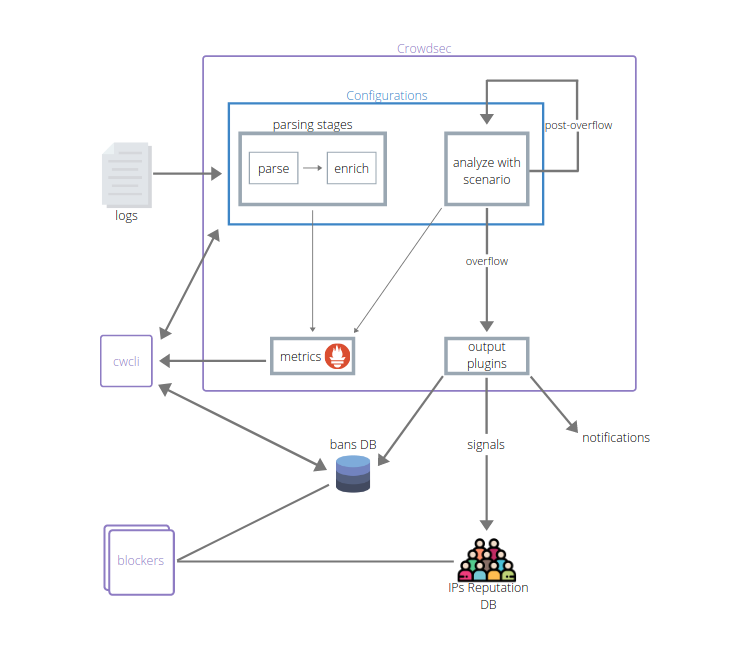
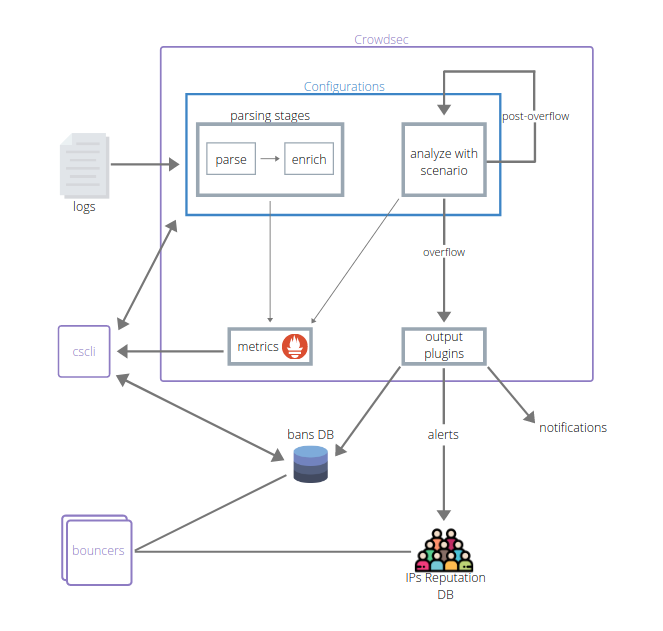
fix typos in doc + update schema

diff --git a/README.md b/README.md
@@ -30,7 +30,7 @@ To achieve this, Crowdsec reads logs from different sources (files, streams ...)
 
 Crowdsec is a modular and plug-able framework, it ships a large variety of well known popular scenarios; users can choose what scenarios they want to be protected from as well as easily add new custom ones to better fit their environment.
 
-Detected malevolent peers can then be prevented from accessing your resources by deploying [bouncers](https://hub.crowdsec.net/browse/#blockers) at various levels (applicative, system, infrastructural) of your stack.
+Detected malevolent peers can then be prevented from accessing your resources by deploying [bouncers](https://hub.crowdsec.net/browse/#bouncers) at various levels (applicative, system, infrastructural) of your stack.
 
 One of the advantages of Crowdsec when compared to other solutions is its crowded aspect : Meta information about detected attacks (source IP, time and triggered scenario) are sent to a central API and then shared amongst all users.
 
